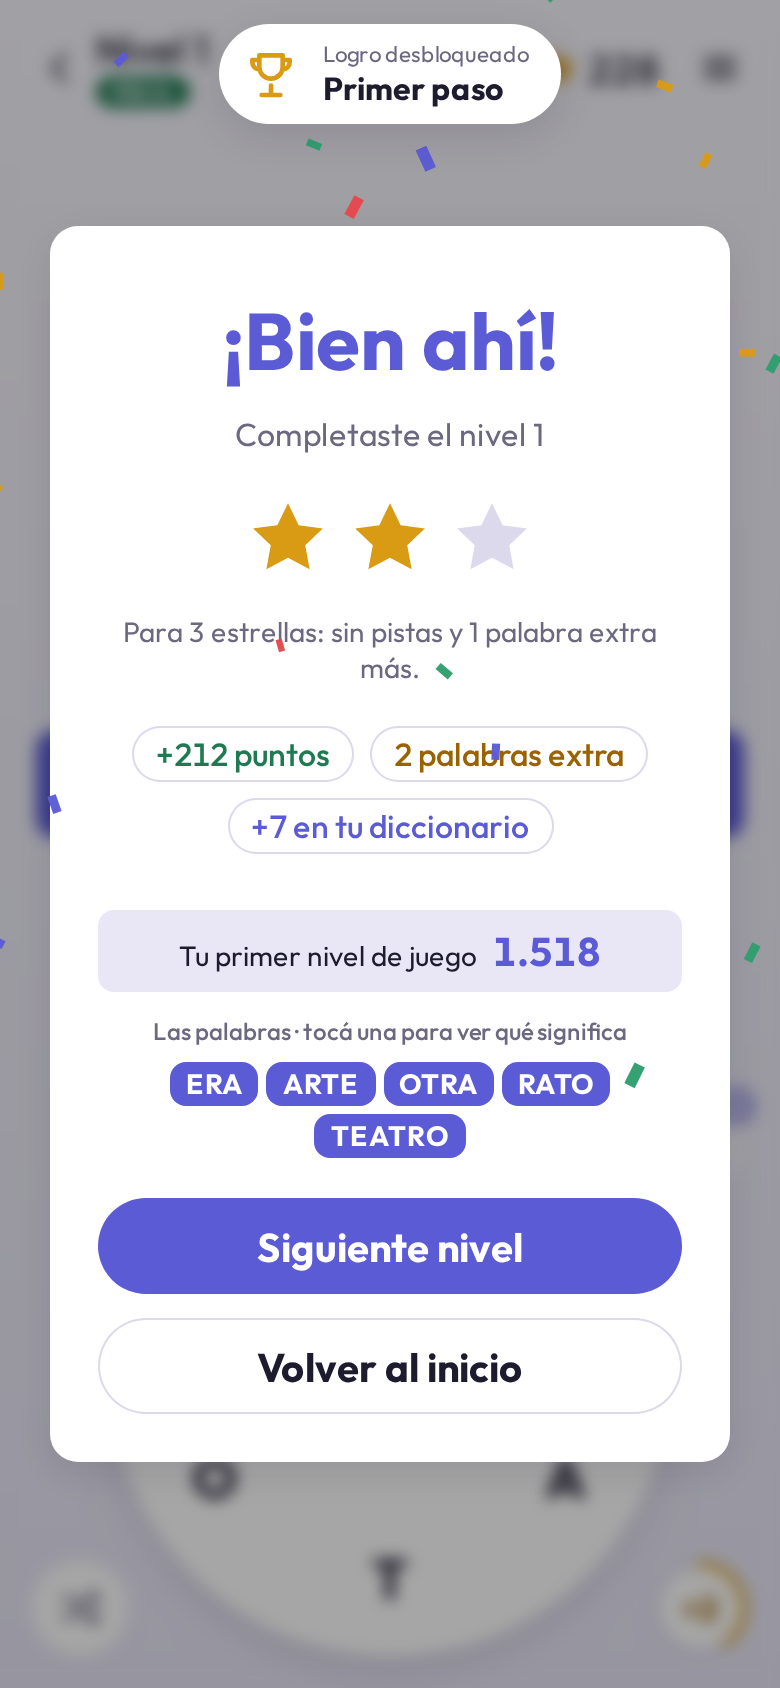
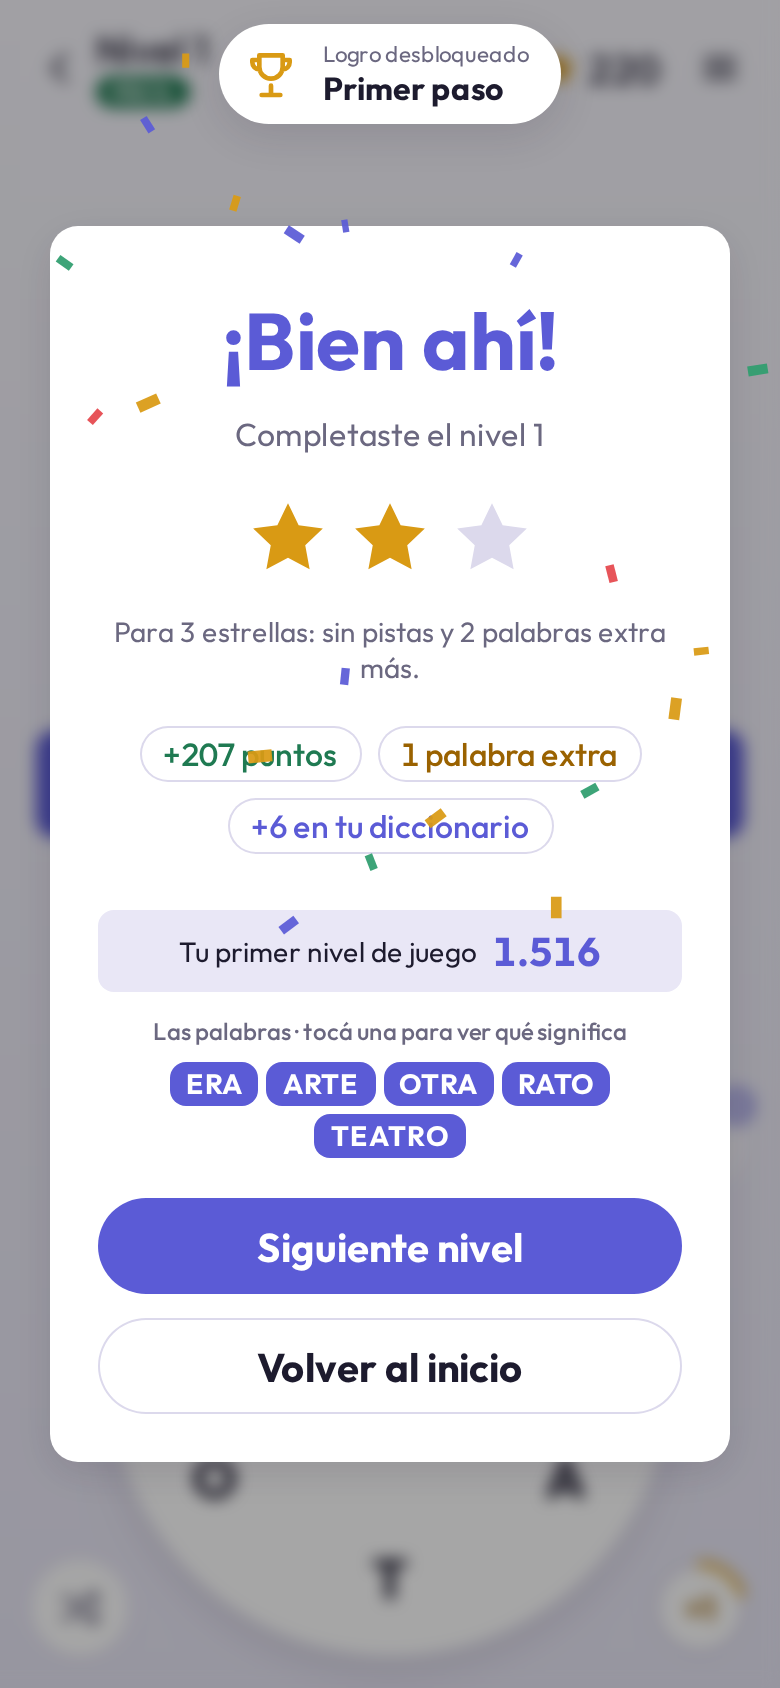
fix: center rating feedback and color signed changes

diff --git a/src/ui/components/LevelComplete.svelte b/src/ui/components/LevelComplete.svelte
@@ -111,7 +111,11 @@ stars land one by one, then the points count up.
       <span>{ratingUpdate.change === null ? strings.ratingFirst : strings.progressRating}</span>
       <strong>{Math.round(ratingUpdate.rating).toLocaleString('es-AR')}</strong>
       {#if ratingUpdate.change !== null}
-        <span class="delta" aria-label={strings.ratingChange(ratingUpdate.change)}
+        <span
+          class="delta"
+          class:increase={ratingUpdate.change > 0}
+          class:decrease={ratingUpdate.change < 0}
+          aria-label={strings.ratingChange(ratingUpdate.change)}
           >{strings.ratingDelta(ratingUpdate.change)}</span
         >
       {/if}
@@ -150,7 +154,7 @@ stars land one by one, then the points count up.
   .rating-result {
     display: flex;
     flex-wrap: wrap;
-    align-items: baseline;
+    align-items: center;
     justify-content: center;
     gap: var(--space-2);
     padding: var(--space-2);
@@ -166,6 +170,12 @@ stars land one by one, then the points count up.
   .delta {
     color: var(--color-text);
     font-weight: var(--weight-bold);
+  }
+  .delta.increase {
+    color: var(--color-rating-up-strong);
+  }
+  .delta.decrease {
+    color: var(--color-rating-down-strong);
   }
 
   p {

diff --git a/tests/e2e/home-polish.test.ts b/tests/e2e/home-polish.test.ts
@@ -140,6 +140,9 @@ test('completion presents a decrease calmly, while replays have no rating line',
   const modal = await finish(page, 1);
   await expect(modal.getByLabel(/^Bajaste .* puntos de nivel de juego$/)).toBeVisible();
   await shot(page, 'win-decrease-light');
+  await page.emulateMedia({ colorScheme: 'dark' });
+  await shot(page, 'win-decrease-dark');
+  await page.emulateMedia({ colorScheme: 'light' });
   await modal.getByRole('button', { name: 'Volver al inicio' }).click();
   await page.getByRole('button', { name: /^Mapa/ }).click();
   await page.getByRole('button', { name: 'Jugar el nivel 1' }).click();

diff --git a/src/ui/styles/contrast.test.ts b/src/ui/styles/contrast.test.ts
@@ -46,6 +46,9 @@ const PAIRS: [text: string, background: string][] = [
   ]),
   ['accent-contrast', 'accent'],
   ['on-strong', 'accent-strong'],
+  ...['text', 'rating-up-strong', 'rating-down-strong'].map(
+    (text) => [text, 'bg-bottom'] as [string, string],
+  ),
   ...['success', 'bonus', 'danger'].flatMap((status) => [
     [`${status}-strong`, 'surface'] as [string, string],
     [`${status}-strong`, 'tile'] as [string, string],

diff --git a/src/ui/styles/tokens.css b/src/ui/styles/tokens.css
@@ -102,6 +102,10 @@
   /* Text on a -strong fill, in every theme. */
   --color-on-strong: light-dark(#ffffff, #12111f);
 
+  /* Rating direction stays green/red in every theme; zero uses ordinary text. */
+  --color-rating-up-strong: light-dark(#196a45, #4cc38a);
+  --color-rating-down-strong: light-dark(#b52a30, #f26c70);
+
   /* Typography */
   --font-sans: 'Outfit Variable', system-ui, sans-serif;
   --text-sm: 0.875rem;

diff --git a/docs/PROGRESS-PLAN.md b/docs/PROGRESS-PLAN.md
@@ -135,8 +135,9 @@ spacing, typography and colors. No rating chart or additional stat pills on Home
   Preserve useful summaries when they fit. A profile without a rating gets a friendly
   first-completion prompt, not a displayed earned 1500. Storage failure must not block Home.
 - Add one compact rating line to Level Complete, below rewards and above the word recap:
-  “Nivel de juego 1.658 · +14”. Use calm styling and an explicit sign; a fall is not an
-  error. Round the before/after values consistently so the visible change reconciles.
+  “Nivel de juego 1.658 · +14”. Vertically center the row; use an explicit sign with green
+  for increases, red for decreases and ordinary text for zero. Round the before/after
+  values consistently so the visible change reconciles.
   The first rating says “Tu primer nivel de juego …” without implying a prior earned rating.
 - Show the update for that exact finalized attempt, using the existing history projection
   and attempt identity. Retain full internal precision. No new formula, persisted rating,

diff --git a/docs/DECISIONS.md b/docs/DECISIONS.md
@@ -23,7 +23,8 @@ delete it, the history is the point.
   preparation; completion/progress/export retain queued reads. No polling, new score formula, persisted rating, or save/content change.
 - **Presentation:** first rating has no claimed previous earned value; later signed
   changes reconcile rounded displayed values. Known practice or failed recording omits
-  the numeric line. A rating decrease uses calm styling, not error feedback.
+  the numeric line. Vertically center the rating row; signed changes use green for
+  increases, red for decreases and ordinary text for zero, with readable colors in every theme.
 - **Navigation:** Home advances a completed main level once before leaving, without
   presenting the next board. Native dialog scrolling preserves readable short layouts.
 

diff --git a/docs/GAME.md b/docs/GAME.md
@@ -89,6 +89,8 @@ an earned rating. Missing/failed history leaves the ordinary progress entry avai
 After a newly rated completion, the dialog shows that finalized attempt's rating and signed
 change; the first says “Tu primer nivel de juego” without an earned previous rating.
 The visible delta subtracts the two rounded displayed values; internal precision is retained.
+The label, rating and delta are vertically centered. Increases are green, decreases red,
+and zero uses the theme's ordinary text color (dark in light mode, light in dark mode).
 Practice, missing evidence or failed writes never fabricate a numeric update. Saving and
 rating reads never block Next/Home. The change is associated by attempt ID, not by comparing
 two unrelated global summaries.
